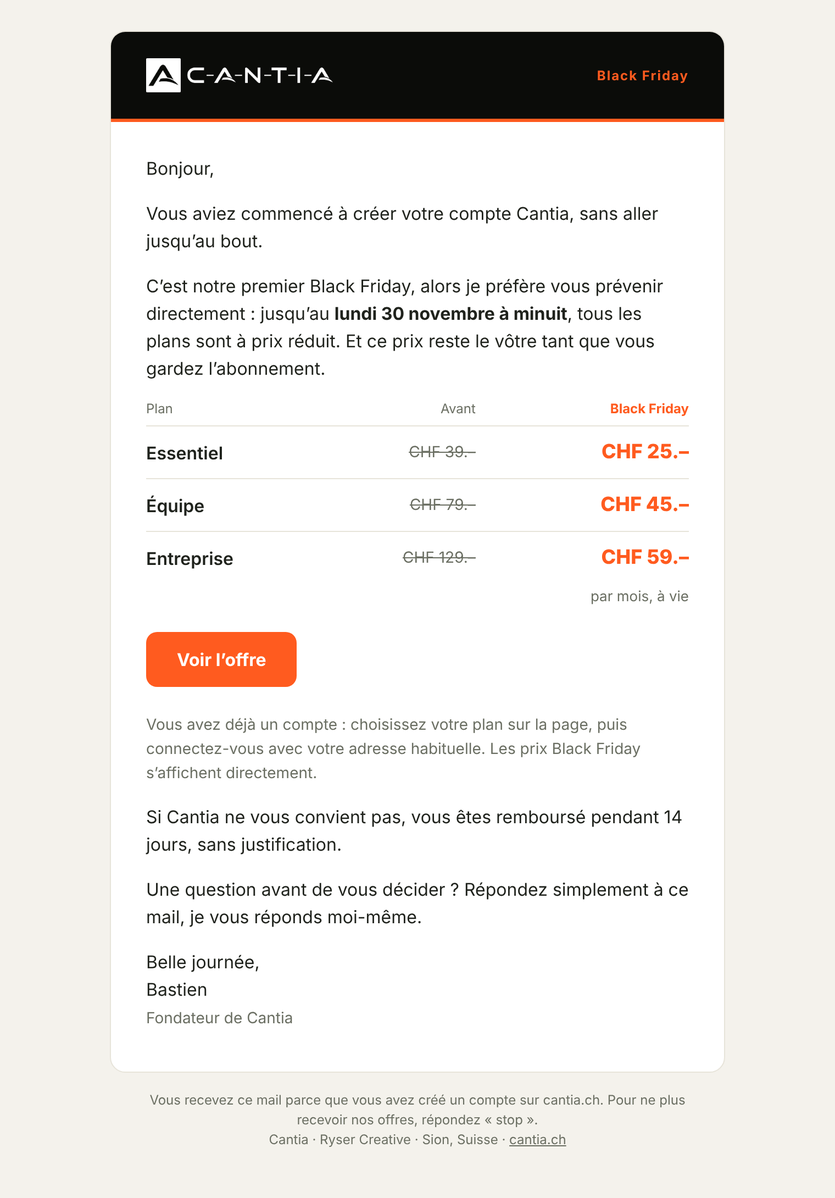
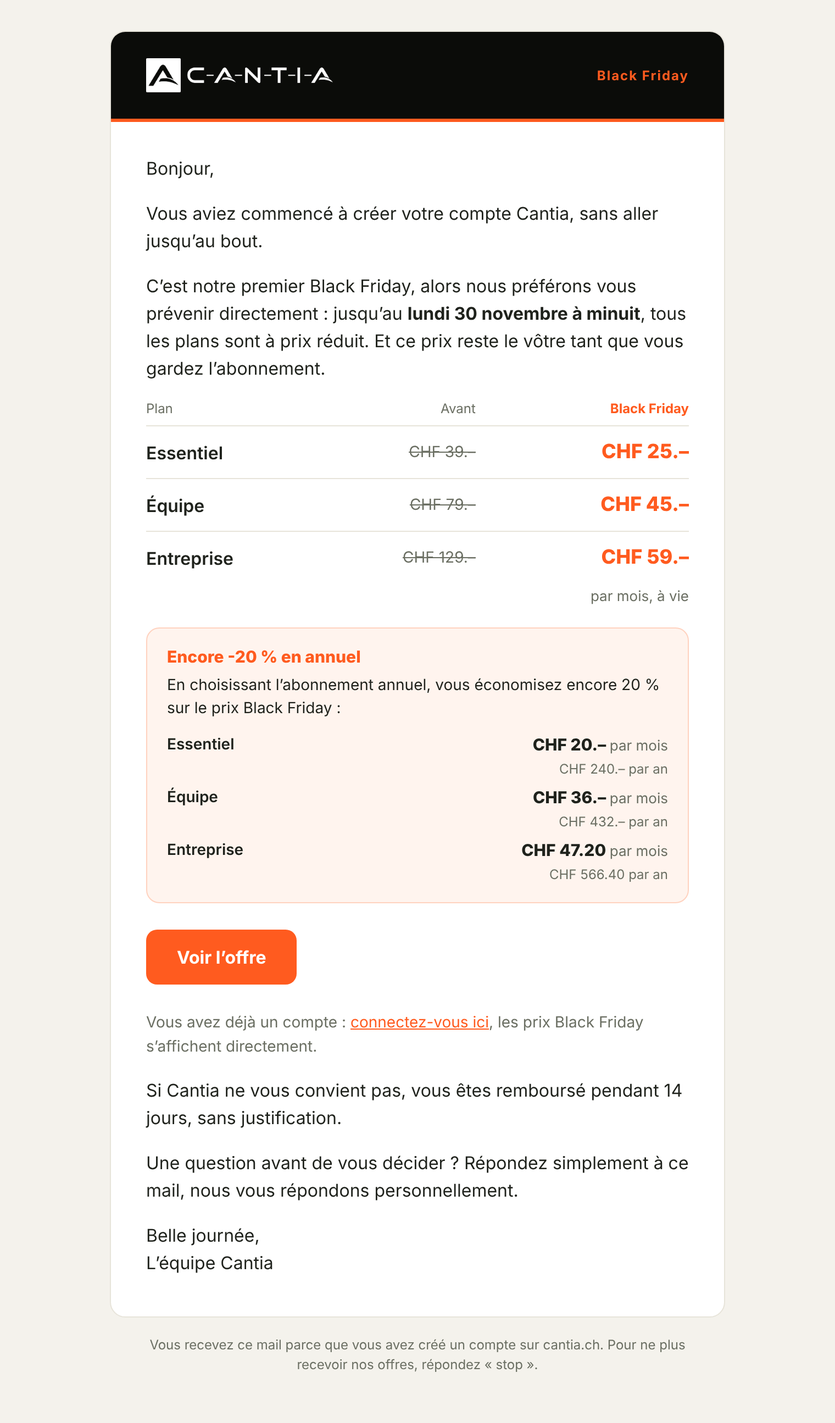
E-mail Black Friday : -20 % en plus en annuel, lien « connectez-vous ici » qui garde l'offre, signé l'équipe Cantia
Claude-Session: https://claude.ai/code/session_01WS922rKspumj4jzDnghEK7

diff --git a/docs/emails/black-friday-2026/black-friday-relance-fr.html b/docs/emails/black-friday-2026/black-friday-relance-fr.html
@@ -32,27 +32,36 @@
     <tr><td class="pad" style="padding:30px 32px 8px;">
       <p class="t" style="margin:0 0 16px;font-size:16px;line-height:25px;color:#1f221c;">Bonjour,</p>
       <p class="t" style="margin:0 0 16px;font-size:16px;line-height:25px;color:#1f221c;">Vous aviez commencé à créer votre compte Cantia, sans aller jusqu’au bout.</p>
-      <p class="t" style="margin:0 0 16px;font-size:16px;line-height:25px;color:#1f221c;">C’est notre premier Black Friday, alors je préfère vous prévenir directement : jusqu’au <b>lundi 30 novembre à minuit</b>, tous les plans sont à prix réduit. Et ce prix reste le vôtre tant que vous gardez l’abonnement.</p>
+      <p class="t" style="margin:0 0 16px;font-size:16px;line-height:25px;color:#1f221c;">C’est notre premier Black Friday, alors nous préférons vous prévenir directement : jusqu’au <b>lundi 30 novembre à minuit</b>, tous les plans sont à prix réduit. Et ce prix reste le vôtre tant que vous gardez l’abonnement.</p>
       <table role="presentation" width="100%" cellpadding="0" cellspacing="0" border="0" style="margin:6px 0 4px;">
         <tr><td style="padding:0 0 8px;font-size:12px;color:#6b6f63;">Plan</td>
             <td align="right" style="padding:0 0 8px;font-size:12px;color:#6b6f63;">Avant</td>
             <td align="right" style="padding:0 0 8px 14px;font-size:12px;color:#ff5b1f;font-weight:700;">Black Friday</td></tr>
         <tr><td style="padding:13px 0;border-top:1px solid #e7e4da;font-size:16px;color:#1f221c;font-weight:600;">Essentiel</td><td align="right" style="padding:13px 0;border-top:1px solid #e7e4da;font-size:14px;color:#6b6f63;"><s>CHF 39.–</s></td><td align="right" style="padding:13px 0 13px 14px;border-top:1px solid #e7e4da;font-size:18px;color:#ff5b1f;font-weight:800;white-space:nowrap;">CHF 25.–</td></tr><tr><td style="padding:13px 0;border-top:1px solid #e7e4da;font-size:16px;color:#1f221c;font-weight:600;">Équipe</td><td align="right" style="padding:13px 0;border-top:1px solid #e7e4da;font-size:14px;color:#6b6f63;"><s>CHF 79.–</s></td><td align="right" style="padding:13px 0 13px 14px;border-top:1px solid #e7e4da;font-size:18px;color:#ff5b1f;font-weight:800;white-space:nowrap;">CHF 45.–</td></tr><tr><td style="padding:13px 0;border-top:1px solid #e7e4da;font-size:16px;color:#1f221c;font-weight:600;">Entreprise</td><td align="right" style="padding:13px 0;border-top:1px solid #e7e4da;font-size:14px;color:#6b6f63;"><s>CHF 129.–</s></td><td align="right" style="padding:13px 0 13px 14px;border-top:1px solid #e7e4da;font-size:18px;color:#ff5b1f;font-weight:800;white-space:nowrap;">CHF 59.–</td></tr>
       </table>
-      <p style="margin:0 0 24px;font-size:13px;color:#6b6f63;text-align:right;">par mois, à vie</p>
+      <p style="margin:0 0 20px;font-size:13px;color:#6b6f63;text-align:right;">par mois, à vie</p>
+      <table role="presentation" width="100%" cellpadding="0" cellspacing="0" border="0" style="margin:0 0 24px;background:#fff4ee;border:1px solid #ffd2bf;border-radius:12px;">
+        <tr><td style="padding:16px 18px 6px;font-size:15px;font-weight:800;color:#ff5b1f;">Encore -20 % en annuel</td></tr>
+        <tr><td style="padding:0 18px 8px;font-size:14px;line-height:21px;color:#1f221c;">En choisissant l’abonnement annuel, vous économisez encore 20 % sur le prix Black Friday :</td></tr>
+        <tr><td style="padding:0 18px 14px;">
+          <table role="presentation" width="100%" cellpadding="0" cellspacing="0" border="0">
+            <tr><td style="padding:5px 0;font-size:14px;color:#1f221c;font-weight:600;">Essentiel</td><td align="right" style="padding:5px 0;font-size:15px;color:#1f221c;font-weight:800;white-space:nowrap;">CHF 20.– <span style="font-weight:400;color:#6b6f63;font-size:13px;">par mois</span></td></tr><tr><td></td><td align="right" style="padding:0 0 4px;font-size:12px;color:#6b6f63;">CHF 240.– par an</td></tr><tr><td style="padding:5px 0;font-size:14px;color:#1f221c;font-weight:600;">Équipe</td><td align="right" style="padding:5px 0;font-size:15px;color:#1f221c;font-weight:800;white-space:nowrap;">CHF 36.– <span style="font-weight:400;color:#6b6f63;font-size:13px;">par mois</span></td></tr><tr><td></td><td align="right" style="padding:0 0 4px;font-size:12px;color:#6b6f63;">CHF 432.– par an</td></tr><tr><td style="padding:5px 0;font-size:14px;color:#1f221c;font-weight:600;">Entreprise</td><td align="right" style="padding:5px 0;font-size:15px;color:#1f221c;font-weight:800;white-space:nowrap;">CHF 47.20 <span style="font-weight:400;color:#6b6f63;font-size:13px;">par mois</span></td></tr><tr><td></td><td align="right" style="padding:0 0 4px;font-size:12px;color:#6b6f63;">CHF 566.40 par an</td></tr>
+          </table>
+        </td></tr>
+      </table>
       <table role="presentation" class="btn" cellpadding="0" cellspacing="0" border="0" style="margin:0 0 24px;">
         <tr><td class="btn" align="center" style="background:#ff5b1f;border-radius:10px;">
           <a href="https://cantia.ch/black-friday?utm_source=email&utm_medium=email&utm_campaign=bf2026-relance" style="display:inline-block;padding:15px 28px;font-size:16px;font-weight:700;color:#ffffff;text-decoration:none;border-radius:10px;">Voir l’offre</a>
         </td></tr>
       </table>
-      <p class="t" style="margin:0 0 16px;font-size:16px;line-height:25px;color:#1f221c;color:#6b6f63;font-size:14px;line-height:22px;">Vous avez déjà un compte : choisissez votre plan sur la page, puis connectez-vous avec votre adresse habituelle. Les prix Black Friday s’affichent directement.</p>
+      <p class="t" style="margin:0 0 16px;font-size:16px;line-height:25px;color:#1f221c;color:#6b6f63;font-size:14px;line-height:22px;">Vous avez déjà un compte : <a href="https://app.cantia.ch/login?offer=BF2026&locale=fr&utm_source=email&utm_medium=email&utm_campaign=bf2026-relance">connectez-vous ici</a>, les prix Black Friday s’affichent directement.</p>
       <p class="t" style="margin:0 0 16px;font-size:16px;line-height:25px;color:#1f221c;">Si Cantia ne vous convient pas, vous êtes remboursé pendant 14 jours, sans justification.</p>
-      <p class="t" style="margin:0 0 16px;font-size:16px;line-height:25px;color:#1f221c;">Une question avant de vous décider ? Répondez simplement à ce mail, je vous réponds moi-même.</p>
-      <p class="t" style="margin:0 0 16px;font-size:16px;line-height:25px;color:#1f221c;margin-bottom:28px;">Belle journée,<br>Bastien<br><span style="color:#6b6f63;font-size:14px;">Fondateur de Cantia</span></p>
+      <p class="t" style="margin:0 0 16px;font-size:16px;line-height:25px;color:#1f221c;">Une question avant de vous décider ? Répondez simplement à ce mail, nous vous répondons personnellement.</p>
+      <p class="t" style="margin:0 0 16px;font-size:16px;line-height:25px;color:#1f221c;margin-bottom:28px;">Belle journée,<br>L’équipe Cantia</p>
     </td></tr>
   </table>
   <table role="presentation" width="100%" cellpadding="0" cellspacing="0" border="0" style="max-width:560px;font-family:-apple-system,BlinkMacSystemFont,'Segoe UI',Roboto,Helvetica,Arial,sans-serif;">
-    <tr><td class="pad" style="padding:16px 32px;font-size:12px;line-height:18px;color:#6b6f63;text-align:center;">Vous recevez ce mail parce que vous avez créé un compte sur cantia.ch. Pour ne plus recevoir nos offres, répondez « stop ».<br>Cantia · Ryser Creative · Sion, Suisse · <a href="https://cantia.ch" style="color:#6b6f63;">cantia.ch</a></td></tr>
+    <tr><td class="pad" style="padding:16px 32px;font-size:12px;line-height:18px;color:#6b6f63;text-align:center;">Vous recevez ce mail parce que vous avez créé un compte sur cantia.ch. Pour ne plus recevoir nos offres, répondez « stop ».</td></tr>
   </table>
 </td></tr>
 </table>

diff --git a/docs/emails/black-friday-2026/black-friday-relance-de.html b/docs/emails/black-friday-2026/black-friday-relance-de.html
@@ -32,27 +32,36 @@
     <tr><td class="pad" style="padding:30px 32px 8px;">
       <p class="t" style="margin:0 0 16px;font-size:16px;line-height:25px;color:#1f221c;">Grüezi</p>
       <p class="t" style="margin:0 0 16px;font-size:16px;line-height:25px;color:#1f221c;">Sie hatten begonnen, Ihr Cantia-Konto zu erstellen, sind aber nicht ganz fertig geworden.</p>
-      <p class="t" style="margin:0 0 16px;font-size:16px;line-height:25px;color:#1f221c;">Es ist unser erster Black Friday, deshalb sage ich es Ihnen lieber direkt: Bis <b>Montag, 30. November, Mitternacht</b> sind alle Pläne günstiger. Und dieser Preis bleibt Ihrer, solange Sie das Abo behalten.</p>
+      <p class="t" style="margin:0 0 16px;font-size:16px;line-height:25px;color:#1f221c;">Es ist unser erster Black Friday, deshalb sagen wir es Ihnen lieber direkt: Bis <b>Montag, 30. November, Mitternacht</b> sind alle Pläne günstiger. Und dieser Preis bleibt Ihrer, solange Sie das Abo behalten.</p>
       <table role="presentation" width="100%" cellpadding="0" cellspacing="0" border="0" style="margin:6px 0 4px;">
         <tr><td style="padding:0 0 8px;font-size:12px;color:#6b6f63;">Plan</td>
             <td align="right" style="padding:0 0 8px;font-size:12px;color:#6b6f63;">Vorher</td>
             <td align="right" style="padding:0 0 8px 14px;font-size:12px;color:#ff5b1f;font-weight:700;">Black Friday</td></tr>
         <tr><td style="padding:13px 0;border-top:1px solid #e7e4da;font-size:16px;color:#1f221c;font-weight:600;">Essentiel</td><td align="right" style="padding:13px 0;border-top:1px solid #e7e4da;font-size:14px;color:#6b6f63;"><s>CHF 39.–</s></td><td align="right" style="padding:13px 0 13px 14px;border-top:1px solid #e7e4da;font-size:18px;color:#ff5b1f;font-weight:800;white-space:nowrap;">CHF 25.–</td></tr><tr><td style="padding:13px 0;border-top:1px solid #e7e4da;font-size:16px;color:#1f221c;font-weight:600;">Équipe</td><td align="right" style="padding:13px 0;border-top:1px solid #e7e4da;font-size:14px;color:#6b6f63;"><s>CHF 79.–</s></td><td align="right" style="padding:13px 0 13px 14px;border-top:1px solid #e7e4da;font-size:18px;color:#ff5b1f;font-weight:800;white-space:nowrap;">CHF 45.–</td></tr><tr><td style="padding:13px 0;border-top:1px solid #e7e4da;font-size:16px;color:#1f221c;font-weight:600;">Entreprise</td><td align="right" style="padding:13px 0;border-top:1px solid #e7e4da;font-size:14px;color:#6b6f63;"><s>CHF 129.–</s></td><td align="right" style="padding:13px 0 13px 14px;border-top:1px solid #e7e4da;font-size:18px;color:#ff5b1f;font-weight:800;white-space:nowrap;">CHF 59.–</td></tr>
       </table>
-      <p style="margin:0 0 24px;font-size:13px;color:#6b6f63;text-align:right;">pro Monat, lebenslang</p>
+      <p style="margin:0 0 20px;font-size:13px;color:#6b6f63;text-align:right;">pro Monat, lebenslang</p>
+      <table role="presentation" width="100%" cellpadding="0" cellspacing="0" border="0" style="margin:0 0 24px;background:#fff4ee;border:1px solid #ffd2bf;border-radius:12px;">
+        <tr><td style="padding:16px 18px 6px;font-size:15px;font-weight:800;color:#ff5b1f;">Jährlich nochmals -20 %</td></tr>
+        <tr><td style="padding:0 18px 8px;font-size:14px;line-height:21px;color:#1f221c;">Mit dem Jahresabo sparen Sie nochmals 20 % auf den Black-Friday-Preis:</td></tr>
+        <tr><td style="padding:0 18px 14px;">
+          <table role="presentation" width="100%" cellpadding="0" cellspacing="0" border="0">
+            <tr><td style="padding:5px 0;font-size:14px;color:#1f221c;font-weight:600;">Essentiel</td><td align="right" style="padding:5px 0;font-size:15px;color:#1f221c;font-weight:800;white-space:nowrap;">CHF 20.– <span style="font-weight:400;color:#6b6f63;font-size:13px;">pro Monat</span></td></tr><tr><td></td><td align="right" style="padding:0 0 4px;font-size:12px;color:#6b6f63;">CHF 240.– pro Jahr</td></tr><tr><td style="padding:5px 0;font-size:14px;color:#1f221c;font-weight:600;">Équipe</td><td align="right" style="padding:5px 0;font-size:15px;color:#1f221c;font-weight:800;white-space:nowrap;">CHF 36.– <span style="font-weight:400;color:#6b6f63;font-size:13px;">pro Monat</span></td></tr><tr><td></td><td align="right" style="padding:0 0 4px;font-size:12px;color:#6b6f63;">CHF 432.– pro Jahr</td></tr><tr><td style="padding:5px 0;font-size:14px;color:#1f221c;font-weight:600;">Entreprise</td><td align="right" style="padding:5px 0;font-size:15px;color:#1f221c;font-weight:800;white-space:nowrap;">CHF 47.20 <span style="font-weight:400;color:#6b6f63;font-size:13px;">pro Monat</span></td></tr><tr><td></td><td align="right" style="padding:0 0 4px;font-size:12px;color:#6b6f63;">CHF 566.40 pro Jahr</td></tr>
+          </table>
+        </td></tr>
+      </table>
       <table role="presentation" class="btn" cellpadding="0" cellspacing="0" border="0" style="margin:0 0 24px;">
         <tr><td class="btn" align="center" style="background:#ff5b1f;border-radius:10px;">
           <a href="https://cantia.ch/de/black-friday?utm_source=email&utm_medium=email&utm_campaign=bf2026-relance" style="display:inline-block;padding:15px 28px;font-size:16px;font-weight:700;color:#ffffff;text-decoration:none;border-radius:10px;">Zum Angebot</a>
         </td></tr>
       </table>
-      <p class="t" style="margin:0 0 16px;font-size:16px;line-height:25px;color:#1f221c;color:#6b6f63;font-size:14px;line-height:22px;">Sie haben schon ein Konto: Wählen Sie Ihren Plan auf der Seite und melden Sie sich dann mit Ihrer gewohnten Adresse an. Die Black-Friday-Preise erscheinen direkt.</p>
+      <p class="t" style="margin:0 0 16px;font-size:16px;line-height:25px;color:#1f221c;color:#6b6f63;font-size:14px;line-height:22px;">Sie haben schon ein Konto: <a href="https://app.cantia.ch/login?offer=BF2026&locale=de&utm_source=email&utm_medium=email&utm_campaign=bf2026-relance">Hier anmelden</a>, die Black-Friday-Preise erscheinen direkt.</p>
       <p class="t" style="margin:0 0 16px;font-size:16px;line-height:25px;color:#1f221c;">Passt Cantia nicht, erhalten Sie Ihr Geld innerhalb von 14 Tagen zurück, ohne Begründung.</p>
-      <p class="t" style="margin:0 0 16px;font-size:16px;line-height:25px;color:#1f221c;">Eine Frage, bevor Sie sich entscheiden? Antworten Sie einfach auf diese E-Mail, ich antworte Ihnen persönlich.</p>
-      <p class="t" style="margin:0 0 16px;font-size:16px;line-height:25px;color:#1f221c;margin-bottom:28px;">Freundliche Grüsse<br>Bastien<br><span style="color:#6b6f63;font-size:14px;">Gründer von Cantia</span></p>
+      <p class="t" style="margin:0 0 16px;font-size:16px;line-height:25px;color:#1f221c;">Eine Frage, bevor Sie sich entscheiden? Antworten Sie einfach auf diese E-Mail, wir antworten Ihnen persönlich.</p>
+      <p class="t" style="margin:0 0 16px;font-size:16px;line-height:25px;color:#1f221c;margin-bottom:28px;">Freundliche Grüsse<br>Ihr Cantia-Team</p>
     </td></tr>
   </table>
   <table role="presentation" width="100%" cellpadding="0" cellspacing="0" border="0" style="max-width:560px;font-family:-apple-system,BlinkMacSystemFont,'Segoe UI',Roboto,Helvetica,Arial,sans-serif;">
-    <tr><td class="pad" style="padding:16px 32px;font-size:12px;line-height:18px;color:#6b6f63;text-align:center;">Sie erhalten diese E-Mail, weil Sie ein Konto auf cantia.ch erstellt haben. Um keine Angebote mehr zu erhalten, antworten Sie mit «Stopp».<br>Cantia · Ryser Creative · Sion, Suisse · <a href="https://cantia.ch" style="color:#6b6f63;">cantia.ch</a></td></tr>
+    <tr><td class="pad" style="padding:16px 32px;font-size:12px;line-height:18px;color:#6b6f63;text-align:center;">Sie erhalten diese E-Mail, weil Sie ein Konto auf cantia.ch erstellt haben. Um keine Angebote mehr zu erhalten, antworten Sie mit «Stopp».</td></tr>
   </table>
 </td></tr>
 </table>

diff --git a/docs/emails/black-friday-2026/black-friday-relance-it.html b/docs/emails/black-friday-2026/black-friday-relance-it.html
@@ -32,27 +32,36 @@
     <tr><td class="pad" style="padding:30px 32px 8px;">
       <p class="t" style="margin:0 0 16px;font-size:16px;line-height:25px;color:#1f221c;">Buongiorno,</p>
       <p class="t" style="margin:0 0 16px;font-size:16px;line-height:25px;color:#1f221c;">Aveva iniziato a creare il suo account Cantia, senza arrivare fino in fondo.</p>
-      <p class="t" style="margin:0 0 16px;font-size:16px;line-height:25px;color:#1f221c;">È il nostro primo Black Friday, quindi preferisco avvisarla direttamente: fino a <b>lunedì 30 novembre a mezzanotte</b> tutti i piani sono scontati. E questo prezzo resta suo finché mantiene l’abbonamento.</p>
+      <p class="t" style="margin:0 0 16px;font-size:16px;line-height:25px;color:#1f221c;">È il nostro primo Black Friday, quindi preferiamo avvisarla direttamente: fino a <b>lunedì 30 novembre a mezzanotte</b> tutti i piani sono scontati. E questo prezzo resta suo finché mantiene l’abbonamento.</p>
       <table role="presentation" width="100%" cellpadding="0" cellspacing="0" border="0" style="margin:6px 0 4px;">
         <tr><td style="padding:0 0 8px;font-size:12px;color:#6b6f63;">Piano</td>
             <td align="right" style="padding:0 0 8px;font-size:12px;color:#6b6f63;">Prima</td>
             <td align="right" style="padding:0 0 8px 14px;font-size:12px;color:#ff5b1f;font-weight:700;">Black Friday</td></tr>
         <tr><td style="padding:13px 0;border-top:1px solid #e7e4da;font-size:16px;color:#1f221c;font-weight:600;">Essentiel</td><td align="right" style="padding:13px 0;border-top:1px solid #e7e4da;font-size:14px;color:#6b6f63;"><s>CHF 39.–</s></td><td align="right" style="padding:13px 0 13px 14px;border-top:1px solid #e7e4da;font-size:18px;color:#ff5b1f;font-weight:800;white-space:nowrap;">CHF 25.–</td></tr><tr><td style="padding:13px 0;border-top:1px solid #e7e4da;font-size:16px;color:#1f221c;font-weight:600;">Équipe</td><td align="right" style="padding:13px 0;border-top:1px solid #e7e4da;font-size:14px;color:#6b6f63;"><s>CHF 79.–</s></td><td align="right" style="padding:13px 0 13px 14px;border-top:1px solid #e7e4da;font-size:18px;color:#ff5b1f;font-weight:800;white-space:nowrap;">CHF 45.–</td></tr><tr><td style="padding:13px 0;border-top:1px solid #e7e4da;font-size:16px;color:#1f221c;font-weight:600;">Entreprise</td><td align="right" style="padding:13px 0;border-top:1px solid #e7e4da;font-size:14px;color:#6b6f63;"><s>CHF 129.–</s></td><td align="right" style="padding:13px 0 13px 14px;border-top:1px solid #e7e4da;font-size:18px;color:#ff5b1f;font-weight:800;white-space:nowrap;">CHF 59.–</td></tr>
       </table>
-      <p style="margin:0 0 24px;font-size:13px;color:#6b6f63;text-align:right;">al mese, a vita</p>
+      <p style="margin:0 0 20px;font-size:13px;color:#6b6f63;text-align:right;">al mese, a vita</p>
+      <table role="presentation" width="100%" cellpadding="0" cellspacing="0" border="0" style="margin:0 0 24px;background:#fff4ee;border:1px solid #ffd2bf;border-radius:12px;">
+        <tr><td style="padding:16px 18px 6px;font-size:15px;font-weight:800;color:#ff5b1f;">Ancora -20 % in annuale</td></tr>
+        <tr><td style="padding:0 18px 8px;font-size:14px;line-height:21px;color:#1f221c;">Scegliendo l’abbonamento annuale risparmia ancora il 20 % sul prezzo Black Friday:</td></tr>
+        <tr><td style="padding:0 18px 14px;">
+          <table role="presentation" width="100%" cellpadding="0" cellspacing="0" border="0">
+            <tr><td style="padding:5px 0;font-size:14px;color:#1f221c;font-weight:600;">Essentiel</td><td align="right" style="padding:5px 0;font-size:15px;color:#1f221c;font-weight:800;white-space:nowrap;">CHF 20.– <span style="font-weight:400;color:#6b6f63;font-size:13px;">al mese</span></td></tr><tr><td></td><td align="right" style="padding:0 0 4px;font-size:12px;color:#6b6f63;">CHF 240.– all’anno</td></tr><tr><td style="padding:5px 0;font-size:14px;color:#1f221c;font-weight:600;">Équipe</td><td align="right" style="padding:5px 0;font-size:15px;color:#1f221c;font-weight:800;white-space:nowrap;">CHF 36.– <span style="font-weight:400;color:#6b6f63;font-size:13px;">al mese</span></td></tr><tr><td></td><td align="right" style="padding:0 0 4px;font-size:12px;color:#6b6f63;">CHF 432.– all’anno</td></tr><tr><td style="padding:5px 0;font-size:14px;color:#1f221c;font-weight:600;">Entreprise</td><td align="right" style="padding:5px 0;font-size:15px;color:#1f221c;font-weight:800;white-space:nowrap;">CHF 47.20 <span style="font-weight:400;color:#6b6f63;font-size:13px;">al mese</span></td></tr><tr><td></td><td align="right" style="padding:0 0 4px;font-size:12px;color:#6b6f63;">CHF 566.40 all’anno</td></tr>
+          </table>
+        </td></tr>
+      </table>
       <table role="presentation" class="btn" cellpadding="0" cellspacing="0" border="0" style="margin:0 0 24px;">
         <tr><td class="btn" align="center" style="background:#ff5b1f;border-radius:10px;">
           <a href="https://cantia.ch/it/black-friday?utm_source=email&utm_medium=email&utm_campaign=bf2026-relance" style="display:inline-block;padding:15px 28px;font-size:16px;font-weight:700;color:#ffffff;text-decoration:none;border-radius:10px;">Vedere l’offerta</a>
         </td></tr>
       </table>
-      <p class="t" style="margin:0 0 16px;font-size:16px;line-height:25px;color:#1f221c;color:#6b6f63;font-size:14px;line-height:22px;">Ha già un account: scelga il piano sulla pagina, poi acceda con il suo indirizzo abituale. I prezzi Black Friday appaiono direttamente.</p>
+      <p class="t" style="margin:0 0 16px;font-size:16px;line-height:25px;color:#1f221c;color:#6b6f63;font-size:14px;line-height:22px;">Ha già un account: <a href="https://app.cantia.ch/login?offer=BF2026&locale=it&utm_source=email&utm_medium=email&utm_campaign=bf2026-relance">acceda qui</a>, i prezzi Black Friday appaiono direttamente.</p>
       <p class="t" style="margin:0 0 16px;font-size:16px;line-height:25px;color:#1f221c;">Se Cantia non fa per lei, viene rimborsato entro 14 giorni, senza giustificazioni.</p>
-      <p class="t" style="margin:0 0 16px;font-size:16px;line-height:25px;color:#1f221c;">Una domanda prima di decidere? Risponda semplicemente a questa e-mail, le rispondo personalmente.</p>
-      <p class="t" style="margin:0 0 16px;font-size:16px;line-height:25px;color:#1f221c;margin-bottom:28px;">Cordiali saluti,<br>Bastien<br><span style="color:#6b6f63;font-size:14px;">Fondatore di Cantia</span></p>
+      <p class="t" style="margin:0 0 16px;font-size:16px;line-height:25px;color:#1f221c;">Una domanda prima di decidere? Risponda semplicemente a questa e-mail, le rispondiamo personalmente.</p>
+      <p class="t" style="margin:0 0 16px;font-size:16px;line-height:25px;color:#1f221c;margin-bottom:28px;">Cordiali saluti,<br>Il team Cantia</p>
     </td></tr>
   </table>
   <table role="presentation" width="100%" cellpadding="0" cellspacing="0" border="0" style="max-width:560px;font-family:-apple-system,BlinkMacSystemFont,'Segoe UI',Roboto,Helvetica,Arial,sans-serif;">
-    <tr><td class="pad" style="padding:16px 32px;font-size:12px;line-height:18px;color:#6b6f63;text-align:center;">Riceve questa e-mail perché ha creato un account su cantia.ch. Per non ricevere più le nostre offerte, risponda «stop».<br>Cantia · Ryser Creative · Sion, Suisse · <a href="https://cantia.ch" style="color:#6b6f63;">cantia.ch</a></td></tr>
+    <tr><td class="pad" style="padding:16px 32px;font-size:12px;line-height:18px;color:#6b6f63;text-align:center;">Riceve questa e-mail perché ha creato un account su cantia.ch. Per non ricevere più le nostre offerte, risponda «stop».</td></tr>
   </table>
 </td></tr>
 </table>

diff --git a/docs/emails/black-friday-2026/build.py b/docs/emails/black-friday-2026/build.py
@@ -8,40 +8,43 @@ C = {
    preheader='Notre premier Black Friday : jusqu’à -54 % à vie, jusqu’au lundi 30 novembre à minuit.',
    hello='Bonjour,',
    p1='Vous aviez commencé à créer votre compte Cantia, sans aller jusqu’au bout.',
-   p2='C’est notre premier Black Friday, alors je préfère vous prévenir directement : jusqu’au <b>lundi 30 novembre à minuit</b>, tous les plans sont à prix réduit. Et ce prix reste le vôtre tant que vous gardez l’abonnement.',
+   p2='C’est notre premier Black Friday, alors nous préférons vous prévenir directement : jusqu’au <b>lundi 30 novembre à minuit</b>, tous les plans sont à prix réduit. Et ce prix reste le vôtre tant que vous gardez l’abonnement.',
    rows=[('Essentiel', '39.–', '25.–'), ('Équipe', '79.–', '45.–'), ('Entreprise', '129.–', '59.–')],
    head=('Plan', 'Avant', 'Black Friday'), per='par mois, à vie',
    cta='Voir l’offre',
-   p3='Vous avez déjà un compte : choisissez votre plan sur la page, puis connectez-vous avec votre adresse habituelle. Les prix Black Friday s’affichent directement.',
+   p3='Vous avez déjà un compte : <a href="{login}">connectez-vous ici</a>, les prix Black Friday s’affichent directement.',
+   yearT='Encore -20 % en annuel', yearP='En choisissant l’abonnement annuel, vous économisez encore 20 % sur le prix Black Friday :', yearRows=[('Essentiel', '20.–', '240.–'), ('Équipe', '36.–', '432.–'), ('Entreprise', '47.20', '566.40')], yearPer=('par mois', 'par an'),
    p4='Si Cantia ne vous convient pas, vous êtes remboursé pendant 14 jours, sans justification.',
-   p5='Une question avant de vous décider ? Répondez simplement à ce mail, je vous réponds moi-même.',
-   bye='Belle journée,', sign='Bastien', role='Fondateur de Cantia',
+   p5='Une question avant de vous décider ? Répondez simplement à ce mail, nous vous répondons personnellement.',
+   bye='Belle journée,', sign='L’équipe Cantia', role='',
    foot='Vous recevez ce mail parce que vous avez créé un compte sur cantia.ch. Pour ne plus recevoir nos offres, répondez « stop ».'),
  'de': dict(p='/de', subject='Ihr Cantia-Konto, zum halben Preis bis Montag',
    preheader='Unser erster Black Friday: bis zu -54 % lebenslang, bis Montag, 30. November, Mitternacht.',
    hello='Grüezi',
    p1='Sie hatten begonnen, Ihr Cantia-Konto zu erstellen, sind aber nicht ganz fertig geworden.',
-   p2='Es ist unser erster Black Friday, deshalb sage ich es Ihnen lieber direkt: Bis <b>Montag, 30. November, Mitternacht</b> sind alle Pläne günstiger. Und dieser Preis bleibt Ihrer, solange Sie das Abo behalten.',
+   p2='Es ist unser erster Black Friday, deshalb sagen wir es Ihnen lieber direkt: Bis <b>Montag, 30. November, Mitternacht</b> sind alle Pläne günstiger. Und dieser Preis bleibt Ihrer, solange Sie das Abo behalten.',
    rows=[('Essentiel', '39.–', '25.–'), ('Équipe', '79.–', '45.–'), ('Entreprise', '129.–', '59.–')],
    head=('Plan', 'Vorher', 'Black Friday'), per='pro Monat, lebenslang',
    cta='Zum Angebot',
-   p3='Sie haben schon ein Konto: Wählen Sie Ihren Plan auf der Seite und melden Sie sich dann mit Ihrer gewohnten Adresse an. Die Black-Friday-Preise erscheinen direkt.',
+   p3='Sie haben schon ein Konto: <a href="{login}">Hier anmelden</a>, die Black-Friday-Preise erscheinen direkt.',
+   yearT='Jährlich nochmals -20 %', yearP='Mit dem Jahresabo sparen Sie nochmals 20 % auf den Black-Friday-Preis:', yearRows=[('Essentiel', '20.–', '240.–'), ('Équipe', '36.–', '432.–'), ('Entreprise', '47.20', '566.40')], yearPer=('pro Monat', 'pro Jahr'),
    p4='Passt Cantia nicht, erhalten Sie Ihr Geld innerhalb von 14 Tagen zurück, ohne Begründung.',
-   p5='Eine Frage, bevor Sie sich entscheiden? Antworten Sie einfach auf diese E-Mail, ich antworte Ihnen persönlich.',
-   bye='Freundliche Grüsse', sign='Bastien', role='Gründer von Cantia',
+   p5='Eine Frage, bevor Sie sich entscheiden? Antworten Sie einfach auf diese E-Mail, wir antworten Ihnen persönlich.',
+   bye='Freundliche Grüsse', sign='Ihr Cantia-Team', role='',
    foot='Sie erhalten diese E-Mail, weil Sie ein Konto auf cantia.ch erstellt haben. Um keine Angebote mehr zu erhalten, antworten Sie mit «Stopp».'),
  'it': dict(p='/it', subject='Il suo account Cantia, a metà prezzo fino a lunedì',
    preheader='Il nostro primo Black Friday: fino a -54 % a vita, fino a lunedì 30 novembre a mezzanotte.',
    hello='Buongiorno,',
    p1='Aveva iniziato a creare il suo account Cantia, senza arrivare fino in fondo.',
-   p2='È il nostro primo Black Friday, quindi preferisco avvisarla direttamente: fino a <b>lunedì 30 novembre a mezzanotte</b> tutti i piani sono scontati. E questo prezzo resta suo finché mantiene l’abbonamento.',
+   p2='È il nostro primo Black Friday, quindi preferiamo avvisarla direttamente: fino a <b>lunedì 30 novembre a mezzanotte</b> tutti i piani sono scontati. E questo prezzo resta suo finché mantiene l’abbonamento.',
    rows=[('Essentiel', '39.–', '25.–'), ('Équipe', '79.–', '45.–'), ('Entreprise', '129.–', '59.–')],
    head=('Piano', 'Prima', 'Black Friday'), per='al mese, a vita',
    cta='Vedere l’offerta',
-   p3='Ha già un account: scelga il piano sulla pagina, poi acceda con il suo indirizzo abituale. I prezzi Black Friday appaiono direttamente.',
+   p3='Ha già un account: <a href="{login}">acceda qui</a>, i prezzi Black Friday appaiono direttamente.',
+   yearT='Ancora -20 % in annuale', yearP='Scegliendo l’abbonamento annuale risparmia ancora il 20 % sul prezzo Black Friday:', yearRows=[('Essentiel', '20.–', '240.–'), ('Équipe', '36.–', '432.–'), ('Entreprise', '47.20', '566.40')], yearPer=('al mese', 'all’anno'),
    p4='Se Cantia non fa per lei, viene rimborsato entro 14 giorni, senza giustificazioni.',
-   p5='Una domanda prima di decidere? Risponda semplicemente a questa e-mail, le rispondo personalmente.',
-   bye='Cordiali saluti,', sign='Bastien', role='Fondatore di Cantia',
+   p5='Una domanda prima di decidere? Risponda semplicemente a questa e-mail, le rispondiamo personalmente.',
+   bye='Cordiali saluti,', sign='Il team Cantia', role='',
    foot='Riceve questa e-mail perché ha creato un account su cantia.ch. Per non ricevere più le nostre offerte, risponda «stop».'),
 }
 
@@ -49,11 +52,13 @@ INK = '#1f221c'; MUTED = '#6b6f63'; FLAME = '#ff5b1f'; LINE = '#e7e4da'; BG = '#
 FONT = "-apple-system,BlinkMacSystemFont,'Segoe UI',Roboto,Helvetica,Arial,sans-serif"
 # The official white logo, already served by cantia.ch (public/email/).
 LOGO = 'https://cantia.ch/email/04_blanc_logo_et_texte.png'
-ADDRESS = 'Cantia · Ryser Creative · Sion, Suisse'
+LOGIN = 'https://app.cantia.ch/login?offer=BF2026&locale={loc}&utm_source=email&utm_medium=email&utm_campaign=bf2026-relance'
 
 def build(loc):
     c = C[loc]
     link = LINK.format(p=c['p'])
+    login = LOGIN.format(loc=loc)
+    p3 = c['p3'].replace('{login}', login)
     para = lambda t, extra='': f'<p class="t" style="margin:0 0 16px;font-size:16px;line-height:25px;color:{INK};{extra}">{t}</p>'
     rows = ''.join(
         f'<tr><td style="padding:13px 0;border-top:1px solid {LINE};font-size:16px;color:{INK};font-weight:600;">{n}</td>'
@@ -101,20 +106,29 @@ def build(loc):
             <td align="right" style="padding:0 0 8px 14px;font-size:12px;color:{FLAME};font-weight:700;">{c['head'][2]}</td></tr>
         {rows}
       </table>
-      <p style="margin:0 0 24px;font-size:13px;color:{MUTED};text-align:right;">{c['per']}</p>
+      <p style="margin:0 0 20px;font-size:13px;color:{MUTED};text-align:right;">{c['per']}</p>
+      <table role="presentation" width="100%" cellpadding="0" cellspacing="0" border="0" style="margin:0 0 24px;background:#fff4ee;border:1px solid #ffd2bf;border-radius:12px;">
+        <tr><td style="padding:16px 18px 6px;font-size:15px;font-weight:800;color:{FLAME};">{c['yearT']}</td></tr>
+        <tr><td style="padding:0 18px 8px;font-size:14px;line-height:21px;color:{INK};">{c['yearP']}</td></tr>
+        <tr><td style="padding:0 18px 14px;">
+          <table role="presentation" width="100%" cellpadding="0" cellspacing="0" border="0">
+            {''.join(f'<tr><td style="padding:5px 0;font-size:14px;color:{INK};font-weight:600;">{n}</td><td align="right" style="padding:5px 0;font-size:15px;color:{INK};font-weight:800;white-space:nowrap;">CHF {m} <span style="font-weight:400;color:{MUTED};font-size:13px;">{c["yearPer"][0]}</span></td></tr><tr><td></td><td align="right" style="padding:0 0 4px;font-size:12px;color:{MUTED};">CHF {y} {c["yearPer"][1]}</td></tr>' for n, m, y in c['yearRows'])}
+          </table>
+        </td></tr>
+      </table>
       <table role="presentation" class="btn" cellpadding="0" cellspacing="0" border="0" style="margin:0 0 24px;">
         <tr><td class="btn" align="center" style="background:{FLAME};border-radius:10px;">
           <a href="{link}" style="display:inline-block;padding:15px 28px;font-size:16px;font-weight:700;color:#ffffff;text-decoration:none;border-radius:10px;">{c['cta']}</a>
         </td></tr>
       </table>
-      {para(c['p3'], f'color:{MUTED};font-size:14px;line-height:22px;')}
+      {para(p3, f'color:{MUTED};font-size:14px;line-height:22px;')}
       {para(c['p4'])}
       {para(c['p5'])}
-      {para(c['bye'] + '<br>' + c['sign'] + f'<br><span style="color:{MUTED};font-size:14px;">' + c['role'] + '</span>', 'margin-bottom:28px;')}
+      {para(c['bye'] + '<br>' + c['sign'], 'margin-bottom:28px;')}
     </td></tr>
   </table>
   <table role="presentation" width="100%" cellpadding="0" cellspacing="0" border="0" style="max-width:560px;font-family:{FONT};">
-    <tr><td class="pad" style="padding:16px 32px;font-size:12px;line-height:18px;color:{MUTED};text-align:center;">{c['foot']}<br>{ADDRESS} · <a href="https://cantia.ch" style="color:{MUTED};">cantia.ch</a></td></tr>
+    <tr><td class="pad" style="padding:16px 32px;font-size:12px;line-height:18px;color:{MUTED};text-align:center;">{c['foot']}</td></tr>
   </table>
 </td></tr>
 </table>
@@ -128,7 +142,7 @@ def build_text(loc):
     strip = lambda t: html.unescape(re.sub('<[^>]+>', '', t))
     lines = [c['hello'], '', strip(c['p1']), '', strip(c['p2']), '']
     lines += [f"- {n} : CHF {b} au lieu de CHF {a}" if loc == 'fr' else f"- {n}: CHF {b} ({c['head'][1]} CHF {a})" for n, a, b in c['rows']]
-    lines += [f"({c['per']})", '', f"{c['cta']} : {LINK.format(p=c['p'])}", '', strip(c['p3']), '', strip(c['p4']), '', strip(c['p5']), '', c['bye'], c['sign'], c['role'], '', '--', strip(c['foot']), ADDRESS]
+    lines += [f"({c['per']})", '', c['yearT'], c['yearP']] + [f"- {n} : CHF {m} {c['yearPer'][0]} (CHF {y} {c['yearPer'][1]})" for n, m, y in c['yearRows']] + ['', f"{c['cta']} : {LINK.format(p=c['p'])}", '', strip(c['p3'].replace('{login}', '')) + ' ' + LOGIN.format(loc=loc), '', strip(c['p4']), '', strip(c['p5']), '', c['bye'], c['sign'], '', '--', strip(c['foot'])]
     return '\n'.join(lines) + '\n'
 
 import json
